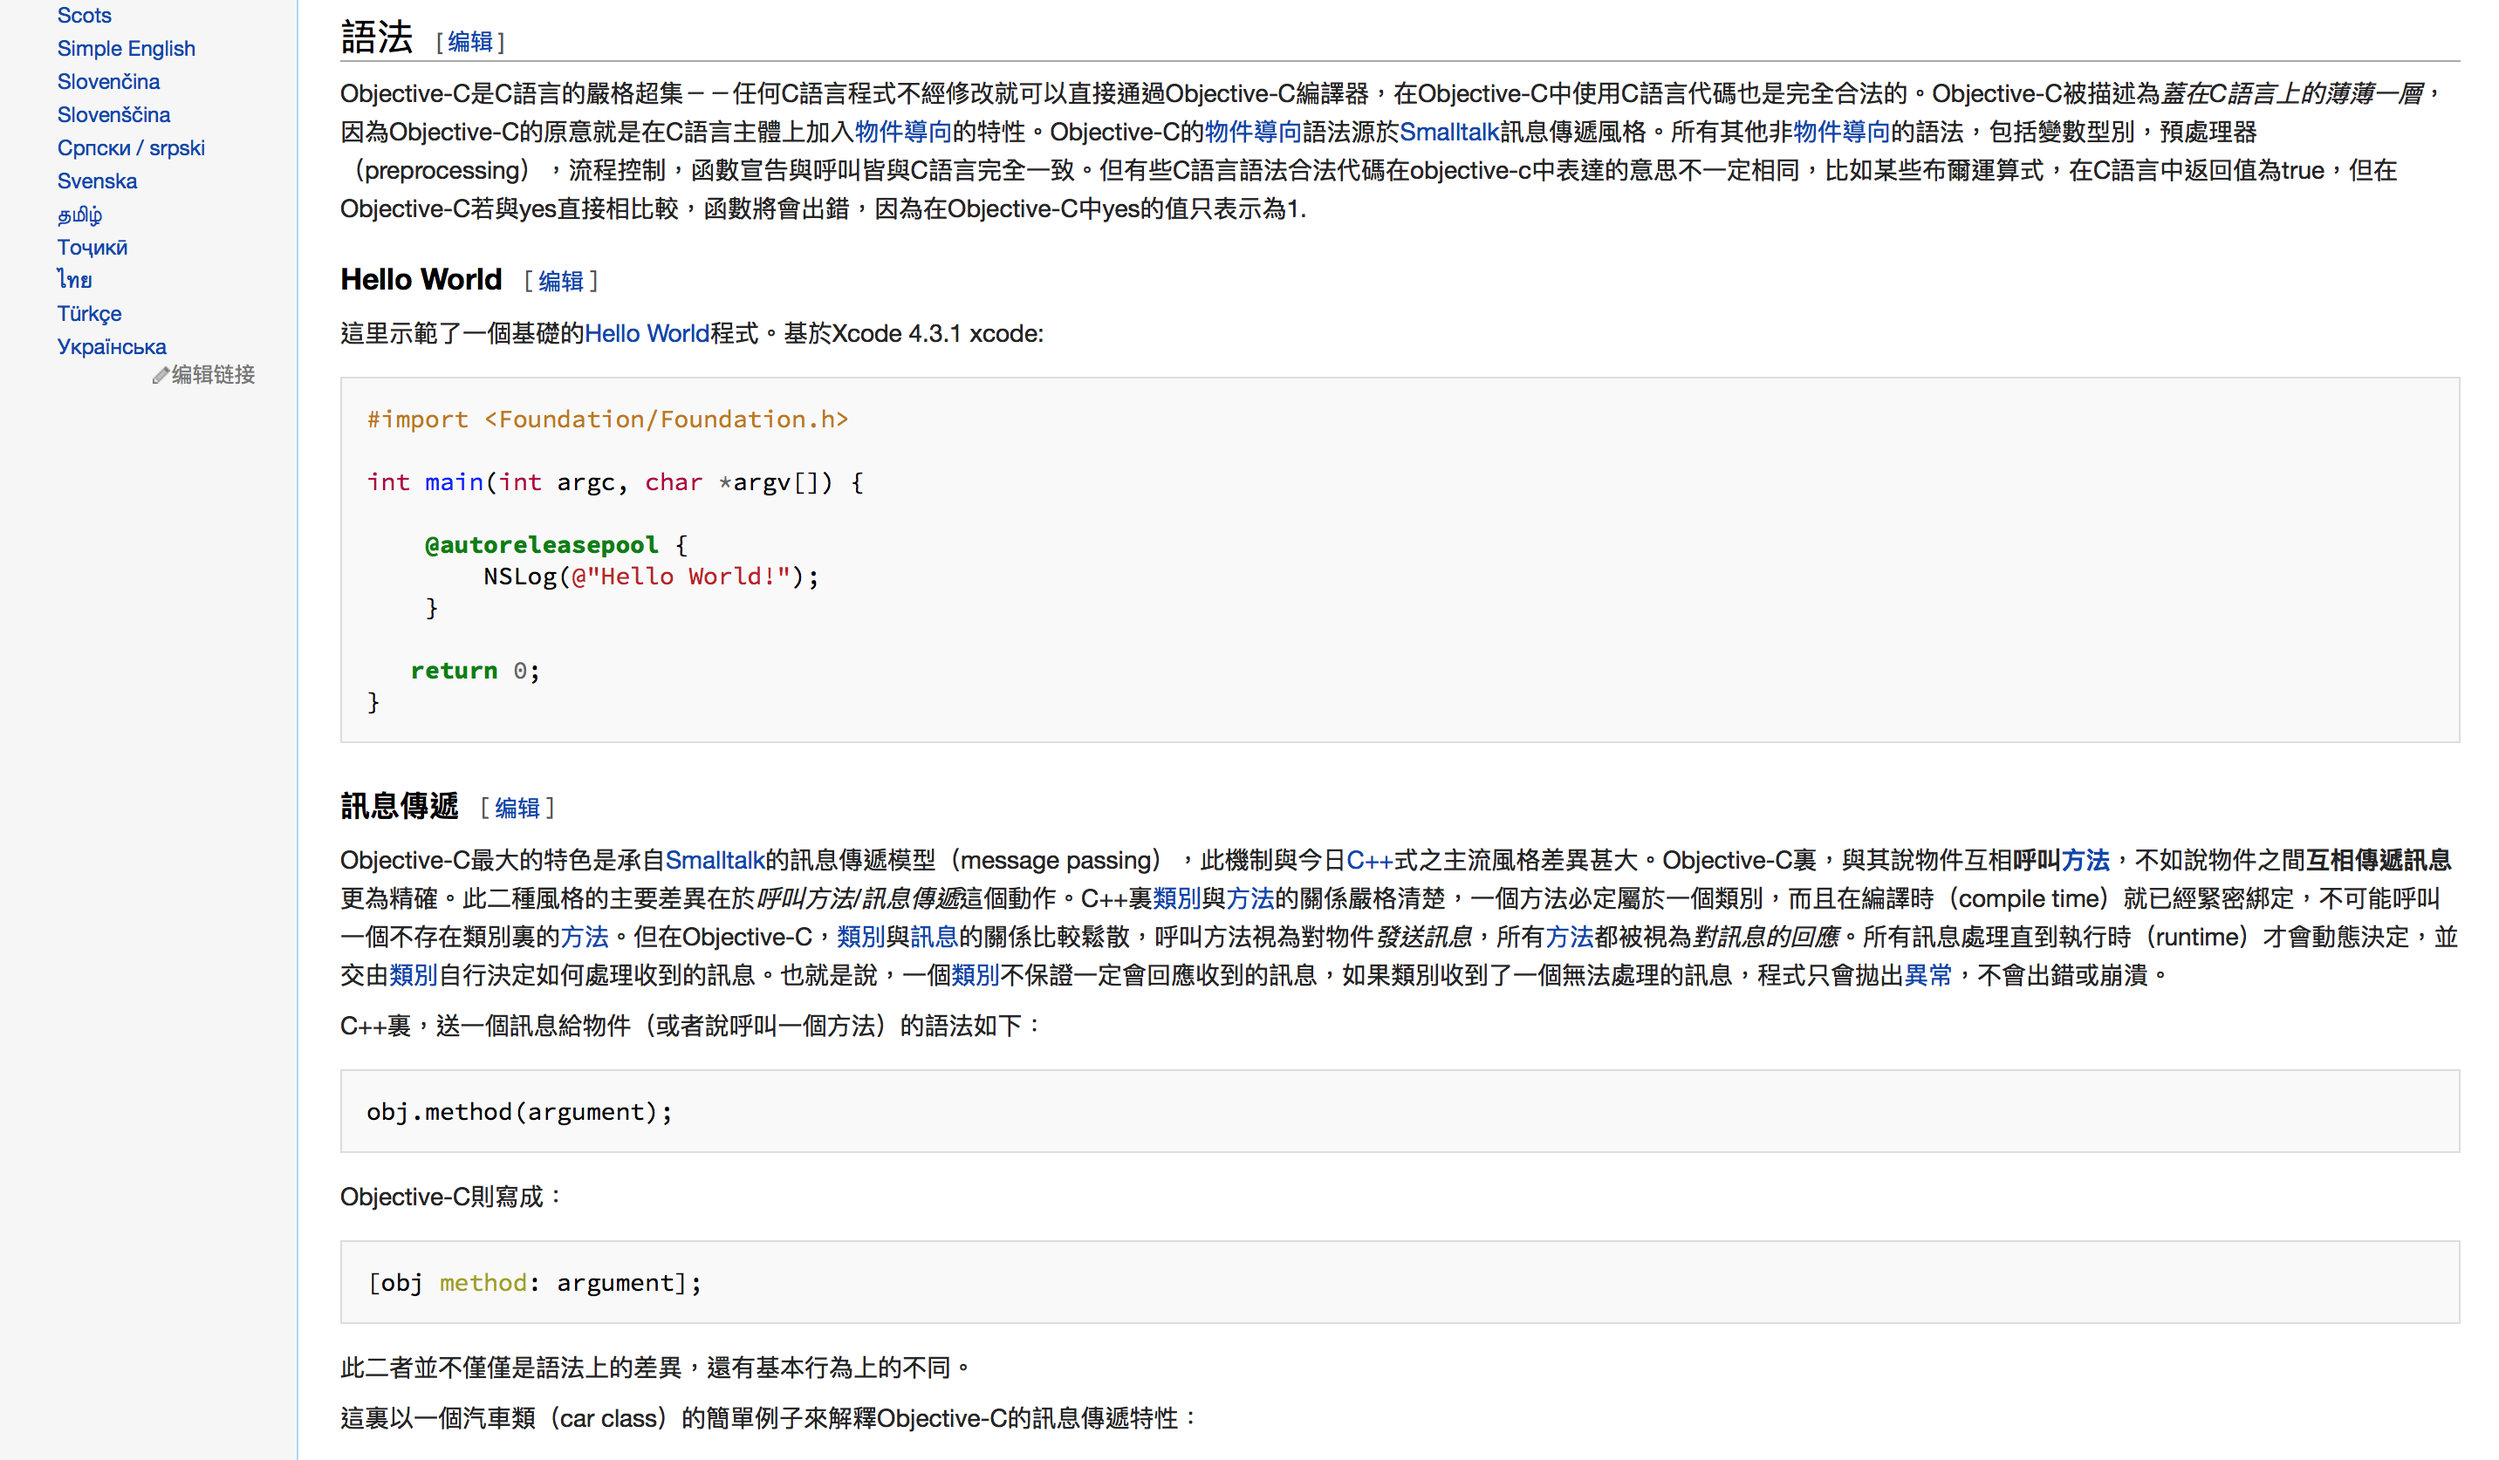
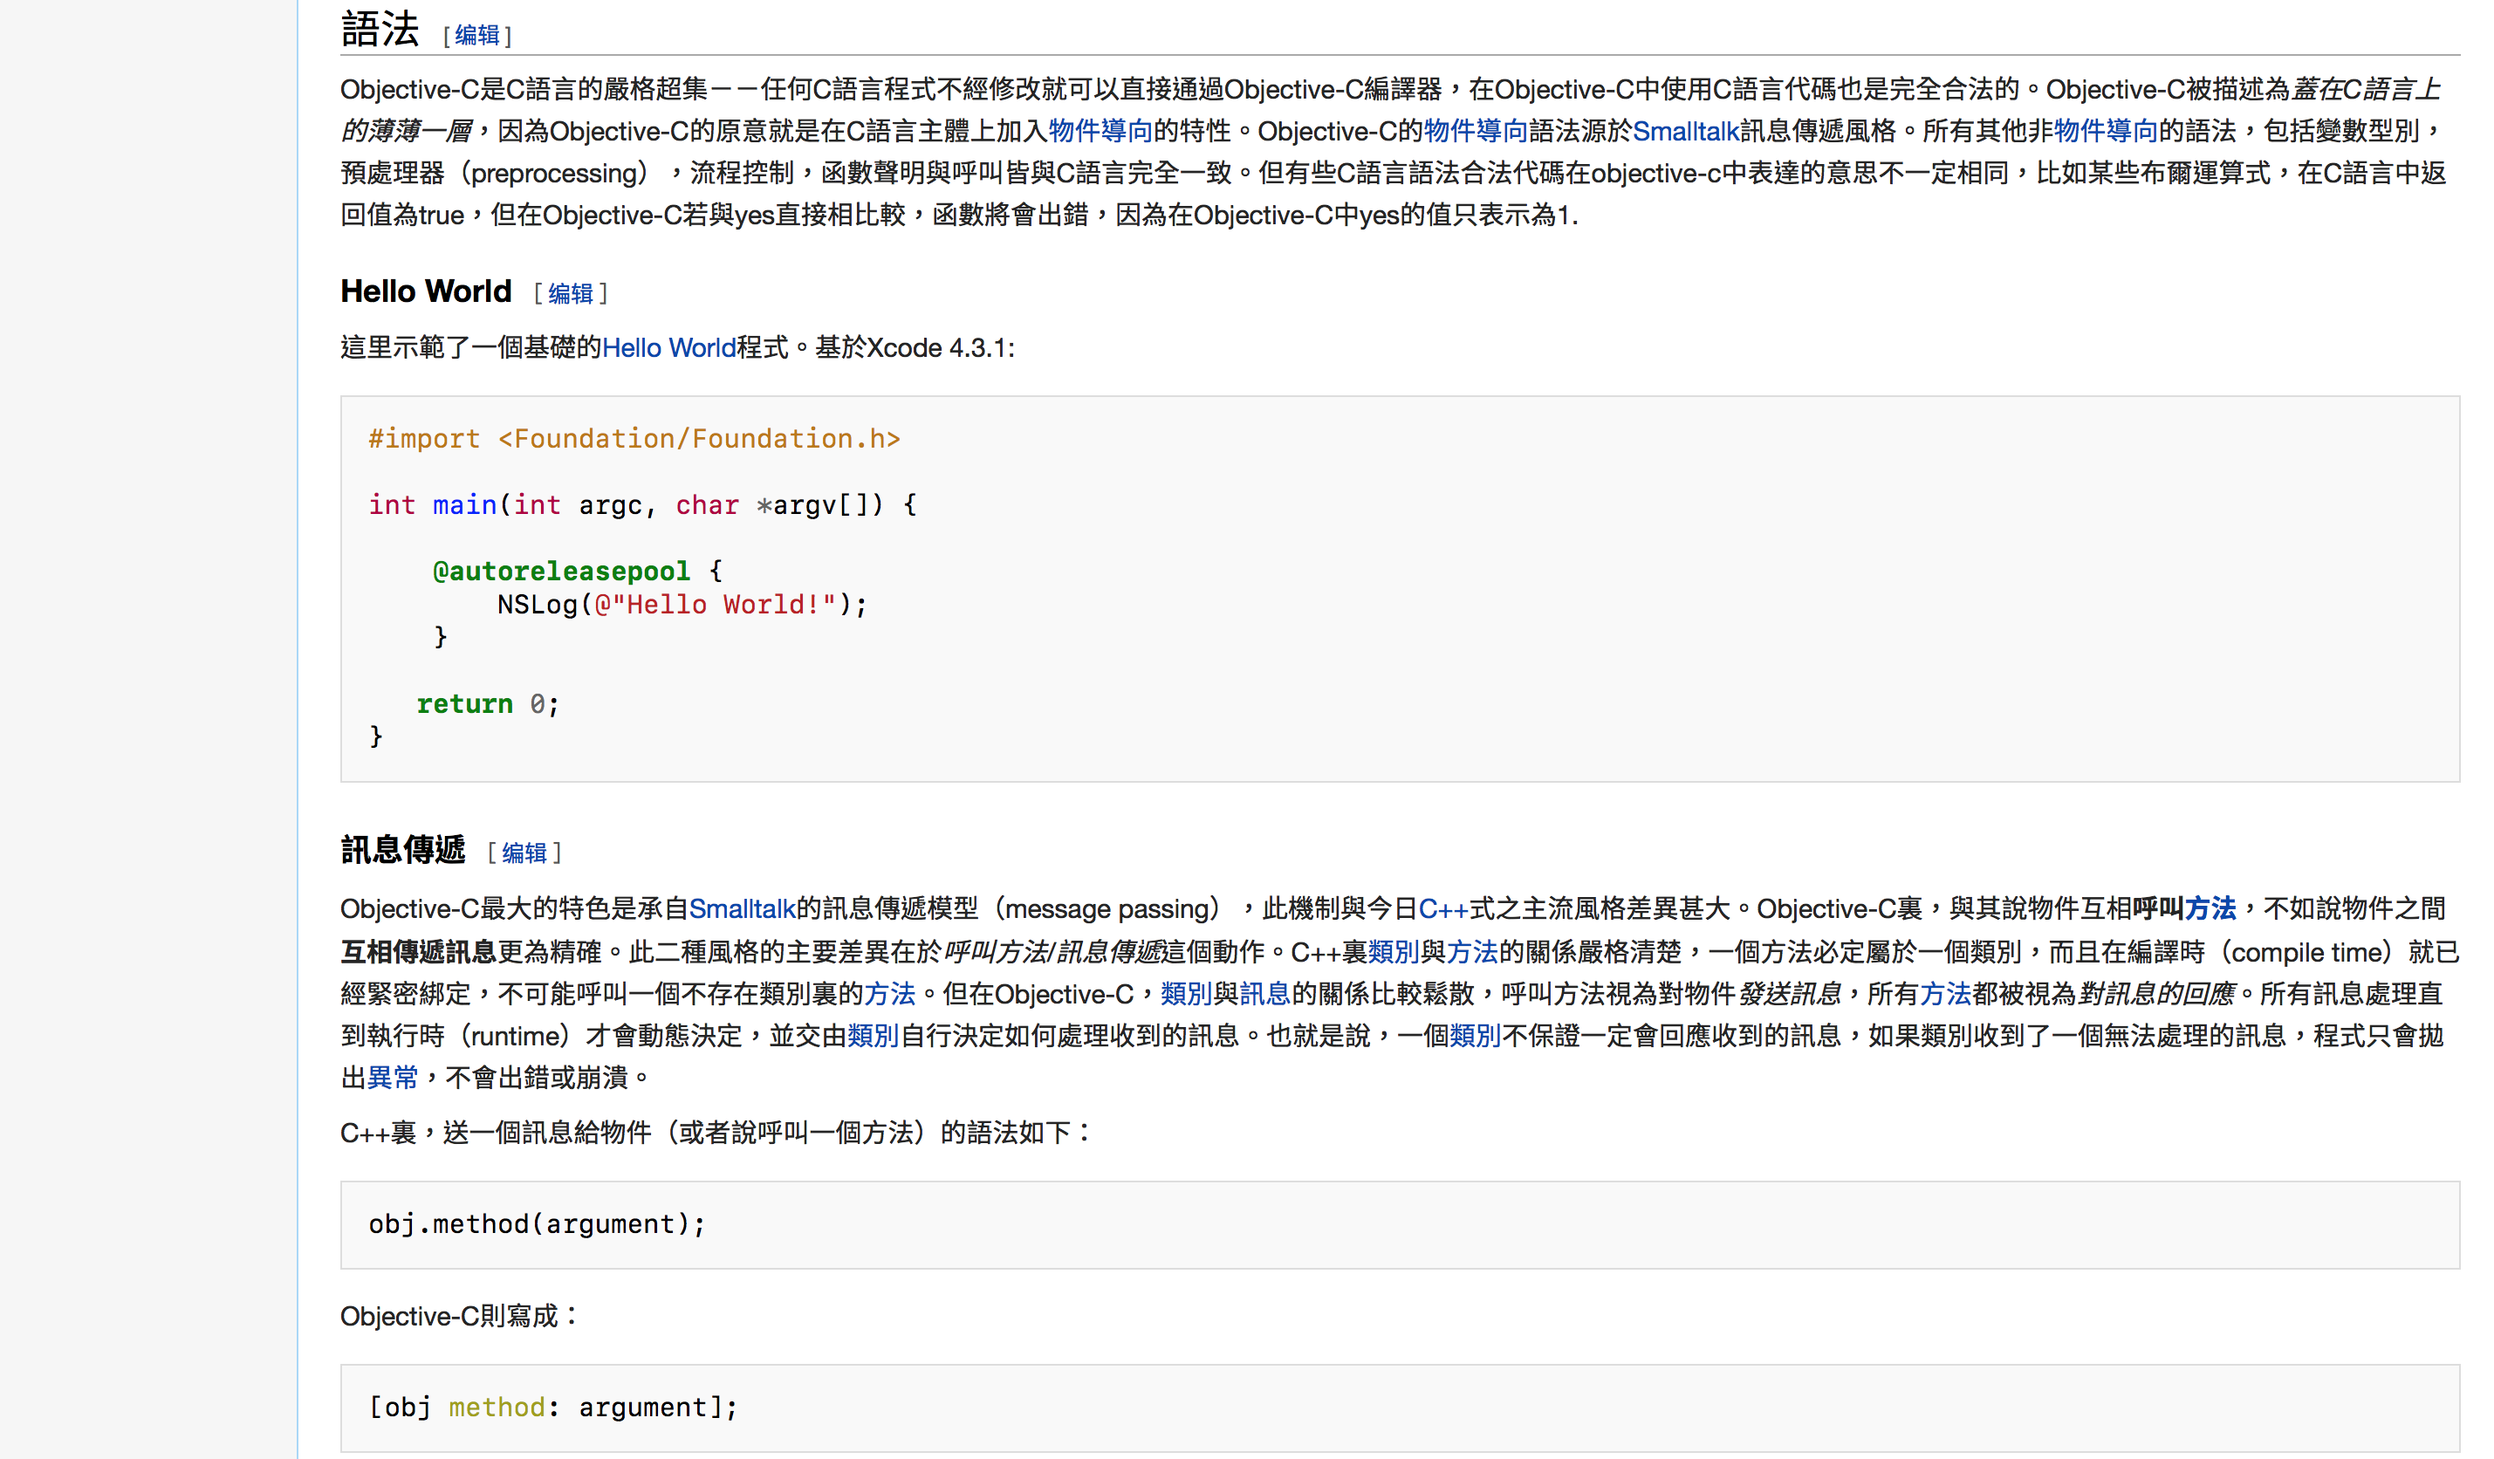
Update for macOS Sierra compatibility.

diff --git a/Neo-Grotesque/Neo-Grotesque_zh_TW_Vector.css b/Neo-Grotesque/Neo-Grotesque_zh_TW_Vector.css
@@ -1,16 +1,17 @@
 /* Author: Stark Shaw */
-/* Date: Oct 11 2015 */
+/* Date: Oct 1 2016 */
 
 /* Designed for Traditional Chinese (Taiwan) for skin “Vector”. */
 
 body, h1, h2, h2 span {
-	font-family: 'Helvetica Neue', 'Helvetica', 'Segoe UI', 'Noto Sans CJK TC', 'PingFang TC', 'Hiragino Sans GB', 'Microsoft Jhenghei', 'Heiti TC', sans-serif; !important
+	font-family: 'Helvetica Neue', 'Helvetica', 'Segoe UI', 'Hiragino Sans CHS', 'Noto Sans CJK TC', 'PingFang TC', 'Hiragino Sans GB', 'Microsoft Jhenghei', 'Heiti TC', sans-serif !important;
 }
 
 /*
 Helvetica Neue – Pre-installed in OS X.
 Helvetica – Pre-installed in OS X.
-Segoe UI – Pre-installed in Windows.
+Segoe UI – Pre-installed in Windows
+Hiragino Sans CHS – Pre-installed Traditional Chinese font family since macOS Sierra.
 Noto Sans CJK TC – Traditional Chinese version of Noto Sans CJK.
 PingFang TC – The new UI font family since OS X El Capitan and iOS 9 for Traditional Chinese.
 Hiragino Sans GB – Pre-installed Simplified Chinese font family in OS X.
@@ -23,10 +24,11 @@ You may add, revise or delete entries according to your taste.
 */
 
 pre {
-	font-family: 'Source Code Pro', 'Menlo', 'Monaco', monospace;
+	font-family: 'SF Mono', 'Source Code Pro', 'Menlo', 'Monaco', monospace;
 }
 
 /* This part is for pre-formatted text, or code.
+SF Mono – A new monospace font family introduced by Apple.
 Source Code Pro – A free monospace font by Adobe Inc.
 Menlo – Pre-installed in OS X.
 Monaco – Pre-installed in OS X.

diff --git a/Neo-Grotesque/Neo-Grotesque_zh_HK_Vector.css b/Neo-Grotesque/Neo-Grotesque_zh_HK_Vector.css
@@ -1,16 +1,17 @@
 /* Author: Stark Shaw */
-/* Date: Oct 11 2015 */
+/* Date: Oct 1 2016 */
 
 /* Designed for Traditional Chinese (Hong Kong) for skin “Vector”. */
 
 body, h1, h2, h2 span {
-	font-family: 'Helvetica Neue', 'Helvetica', 'Segoe UI', 'Noto Sans CJK TC', 'PingFang HK', 'Hiragino Sans GB', 'Microsoft Jhenghei', 'Heiti TC', sans-serif; !important
+	font-family: 'Helvetica Neue', 'Helvetica', 'Segoe UI', 'Hiragino Sans CHS', 'Noto Sans CJK TC', 'PingFang HK', 'Hiragino Sans GB', 'Microsoft Jhenghei', 'Heiti TC', sans-serif !important;
 }
 
 /*
 Helvetica Neue – Pre-installed in OS X.
 Helvetica – Pre-installed in OS X.
 Segoe UI – Pre-installed in Windows.
+Hiragino Sans CHS – Pre-installed Traditional Chinese font family since macOS Sierra.
 Noto Sans CJK TC – Traditional Chinese version of Noto Sans CJK.
 PingFang HK – The new UI font family since OS X El Capitan and iOS 9 for Traditional Chinese (Hong Kong).
 Hiragino Sans GB – Pre-installed Simplified Chinese font family in OS X.
@@ -23,10 +24,11 @@ You may add, revise or delete entries according to your taste.
 */
 
 pre {
-	font-family: 'Source Code Pro', 'Menlo', 'Monaco', monospace;
+	font-family: 'SF Mono', 'Source Code Pro', 'Menlo', 'Monaco', monospace;
 }
 
 /* This part is for pre-formatted text, or code.
+SF Mono – A new monospace font family introduced by Apple.
 Source Code Pro – A free monospace font by Adobe Inc.
 Menlo – Pre-installed in OS X.
 Monaco – Pre-installed in OS X.

diff --git a/Neo-Grotesque/Neo-Grotesque_zh_CN_Vector.css b/Neo-Grotesque/Neo-Grotesque_zh_CN_Vector.css
@@ -1,10 +1,10 @@
 /* Author: Stark Shaw */
-/* Date: Oct 11 2015 */
+/* Date: Oct 1 2016 */
 
 /* Designed for Simplified Chinese for skin “Vector”. */
 
 body, h1, h2, h2 span {
-	font-family: 'Helvetica Neue', 'Helvetica', 'Segoe UI', 'Hiragino Sans GB', 'Noto Sans CJK SC', 'PingFang SC', 'Microsoft Yahei', 'Heiti SC', sans-serif; !important
+	font-family: 'Helvetica Neue', 'Helvetica', 'Segoe UI', 'Hiragino Sans GB', 'Noto Sans CJK SC', 'PingFang SC', 'Microsoft Yahei', 'Heiti SC', sans-serif !important;
 }
 
 /*
@@ -23,10 +23,11 @@ You may add, revise or delete entries according to your taste.
 */
 
 pre {
-	font-family: 'Source Code Pro', 'Menlo', 'Monaco', monospace;
+	font-family: 'SF Mono', 'Source Code Pro', 'Menlo', 'Monaco', monospace;
 }
 
 /* This part is for pre-formatted text, or code.
+SF Mono – A new monospace font family introduced by Apple.
 Source Code Pro – A free monospace font by Adobe Inc.
 Menlo – Pre-installed in OS X.
 Monaco – Pre-installed in OS X.

diff --git a/Neo-Grotesque/Neo-Grotesque_JP_Vector.css b/Neo-Grotesque/Neo-Grotesque_JP_Vector.css
@@ -4,7 +4,7 @@
 /* Designed for Japanese for skin “Vector”. */
 
 body, h1, h2, h2 span {
-	font-family: 'Helvetica Neue', 'Helvetica', 'Segoe UI', 'Hiragino Sans', 'Hiragino Kaku Gothic Pro', 'Hiragino Sans GB', 'Noto Sans CJK JP', 'Meiryo', 'Microsoft Yahei', 'Heiti SC', sans-serif; !important
+	font-family: 'Helvetica Neue', 'Helvetica', 'Segoe UI', 'Hiragino Sans', 'Hiragino Kaku Gothic Pro', 'Hiragino Sans GB', 'Noto Sans CJK JP', 'Meiryo', 'Microsoft Yahei', 'Heiti SC', sans-serif !important;
 }
 
 /*
@@ -23,10 +23,11 @@ You may add, revise or delete entries according to your taste.
 */
 
 pre {
-	font-family: 'Source Code Pro', 'Menlo', 'Monaco', monospace;
+	font-family: 'SF Mono', 'Source Code Pro', 'Menlo', 'Monaco', monospace;
 }
 
 /* This part is for pre-formatted text, or code.
+SF Mono – A new monospace font family introduced by Apple.
 Source Code Pro – A free monospace font by Adobe Inc.
 Menlo – Pre-installed in OS X.
 Monaco – Pre-installed in OS X.

diff --git a/Classic/Classic_zh_CN_Vector.css b/Classic/Classic_zh_CN_Vector.css
@@ -1,5 +1,5 @@
 /* Author: Stark Shaw */
-/* Date: Sep 2 2015 */
+/* Date: Oct 1 2016 */
 
 /* Designed for Simplified Chinese for skin “Vector”. */
 
@@ -18,4 +18,15 @@ SimSun – The default serif Simplified Chinese font after Windows 95.
 serif – The final fallback.
 
 You may add, revise or delete entries according to your taste.
+*/
+
+pre {
+	font-family: 'SF Mono', 'Source Code Pro', 'Menlo', 'Monaco', monospace;
+}
+
+/* This part is for pre-formatted text, or code.
+SF Mono – A new monospace font family introduced by Apple.
+Source Code Pro – A free monospace font by Adobe Inc.
+Menlo – Pre-installed in OS X.
+Monaco – Pre-installed in OS X.
 */

diff --git a/Classic/Classic_JP_Vector.css b/Classic/Classic_JP_Vector.css
@@ -1,5 +1,5 @@
 /* Author: Stark Shaw */
-/* Date: Sep 2 2015 */
+/* Date: Oct 1 2016 */
 
 /* Designed for Japanese for skin “Vector”. */
 
@@ -20,4 +20,15 @@ SimSun – The default serif Simplified Chinese font since Windows 95.
 serif – The final fallback.
 
 You may add, revise or delete entries according to your taste.
+*/
+
+pre {
+	font-family: 'SF Mono', 'Source Code Pro', 'Menlo', 'Monaco', monospace;
+}
+
+/* This part is for pre-formatted text, or code.
+SF Mono – Pre-installed since macOS Sierra.
+Source Code Pro – A free monospace font by Adobe Inc.
+Menlo – Pre-installed in OS X.
+Monaco – Pre-installed in OS X.
 */
